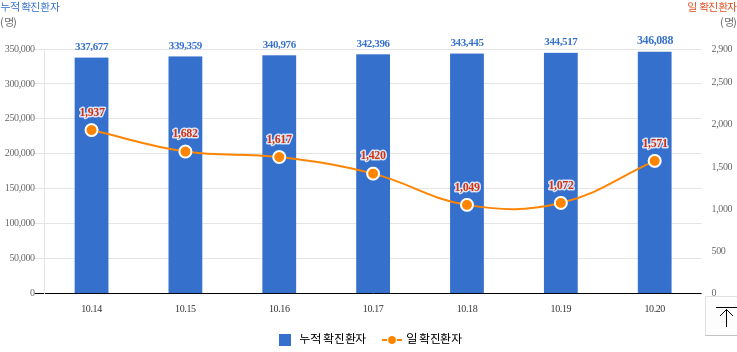
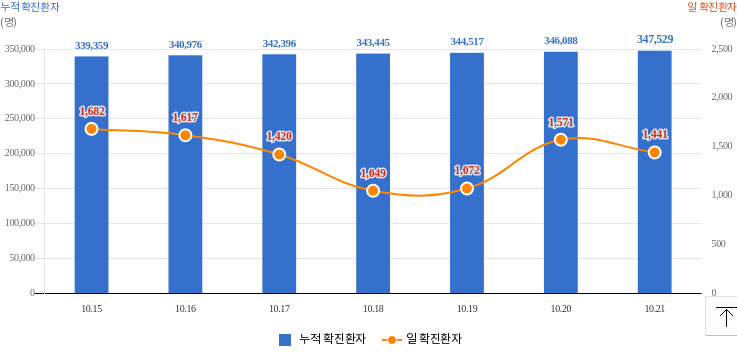
Run crawler and update current data

diff --git a/data.js b/data.js
@@ -1,13 +1,13 @@
-var 날짜 = '2021. 10. 21. (목) 0시 기준';
-var 계 = '1,772';
+var 날짜 = '2021. 10. 21. (목) 10시 기준';
+var 계 = '1,773';
 var 완치 = '1,748';
-var 입원중 = '21';
+var 입원중 = '22';
 var 사망자 = '3';
-var 검사중 = '1,583';
+var 검사중 = '1,582';
 var 검사결과 = '479,330';
 var 자가격리자 = '236';
 var 거리두기단계 = '사회적 거리두기  3단계 시행 : 2021. 10. 18.(월) 0시 ~ 10. 31.(일) 24시';
-var 국내발생 = '1,556';
-var 해외발생 = '15';
-var 합계 = '1571';
+var 국내발생 = '1,430';
+var 해외발생 = '11';
+var 합계 = '1441';
 var data = [];
